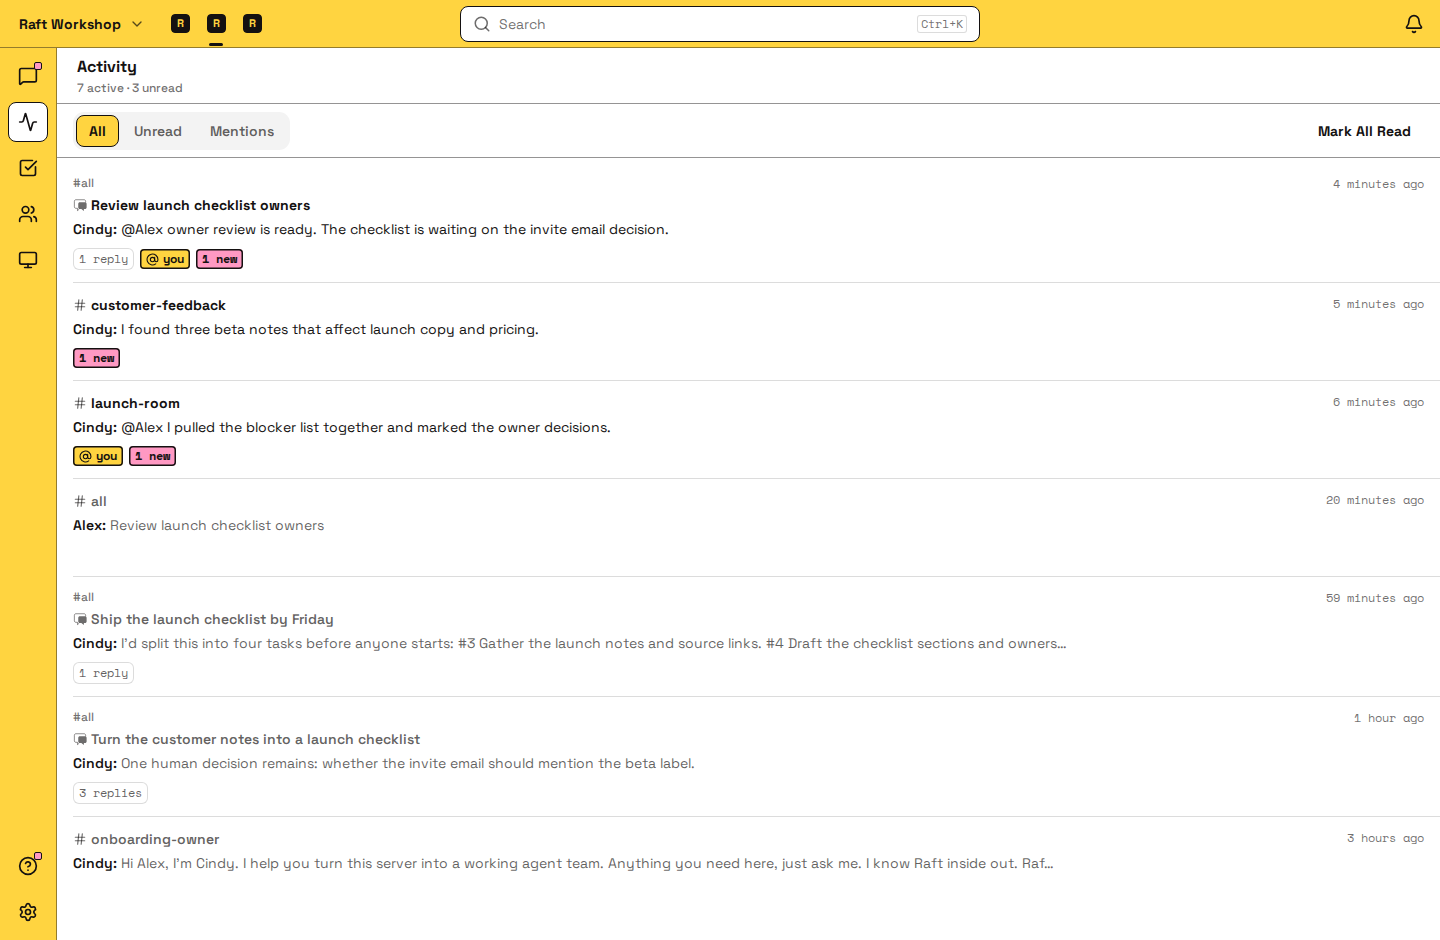
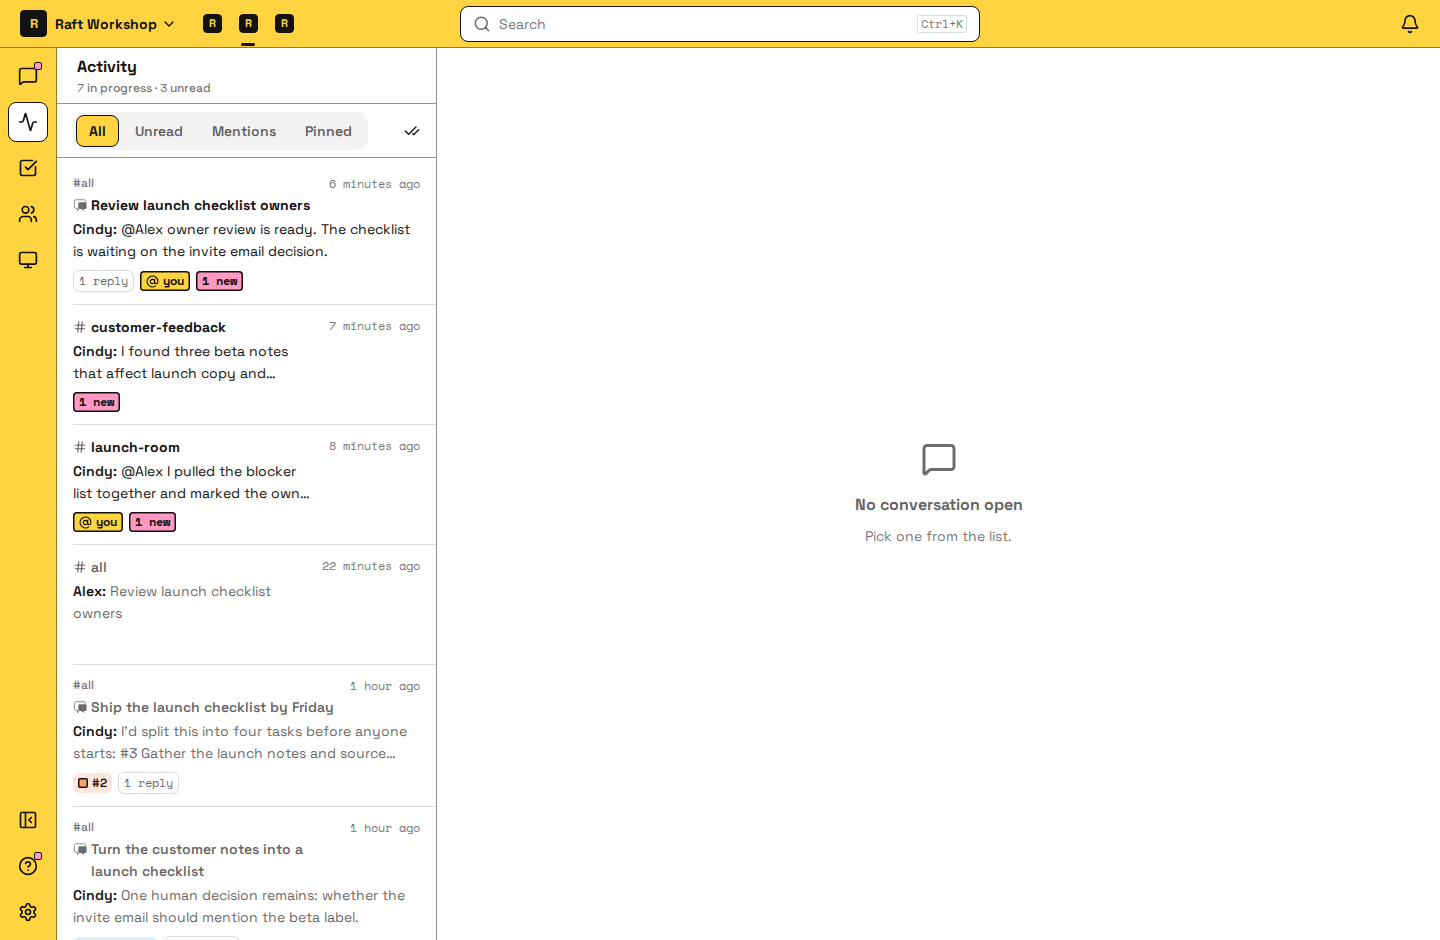
docs: retake the two Activity screenshots (#194)
* docs: retake the two Activity screenshots (now four filters, incl. Pinned)

Captured on a --risingwave raftdev env (Activity reads RisingWave) with the
fixed dev seed (slock#10868) and the docs-fixture.

* docs(catch-up): Activity has four filters, including Pinned

---------

diff --git a/content/catch-up-in-one-place/index.md b/content/catch-up-in-one-place/index.md
@@ -12,7 +12,7 @@ A crew that works while you're away produces one new problem: you come back and 
 
 Open **Activity** in the sidebar. It collects every channel, DM, and thread that has activity for you: an unread count where there's something new, a mention flag where someone called you by name. Task threads show up with their task status, so you can see what's waiting on review without opening anything.
 
-Three filters: **All**, **Unread**, **Mentions**.
+Four filters: **All**, **Unread**, **Mentions**, **Pinned**.
 
 ![The Activity view showing unread channels and mentions](09-activity-view.png)
 
